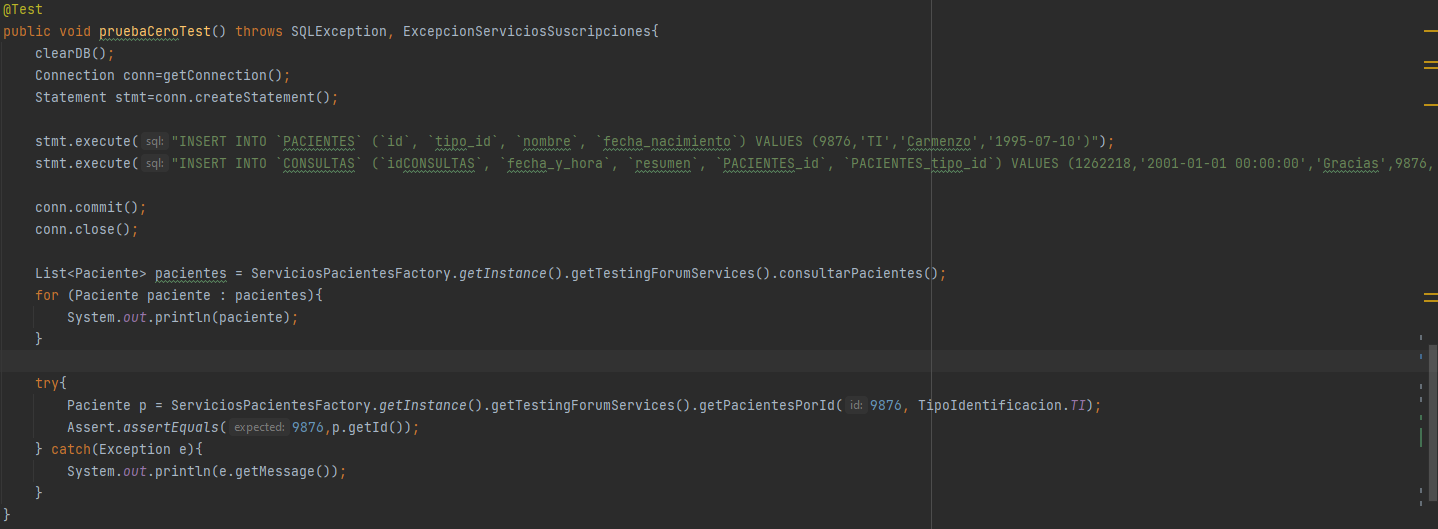
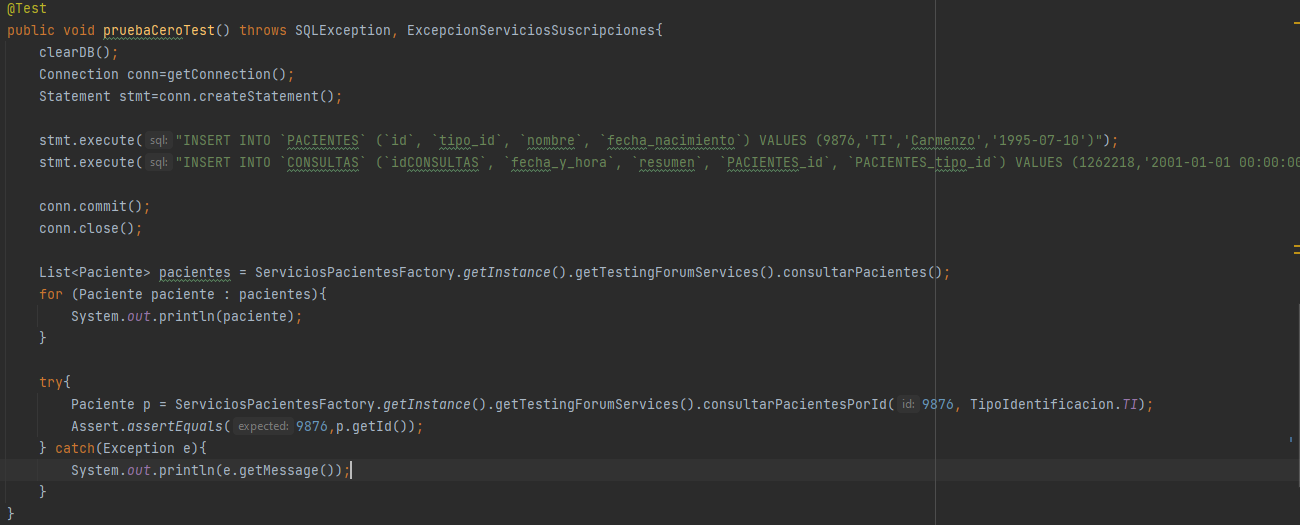
tercer punto

diff --git a/src/main/java/edu/eci/pdsw/samples/services/impl/ServiciosPacienteImpl.java b/src/main/java/edu/eci/pdsw/samples/services/impl/ServiciosPacienteImpl.java
@@ -33,12 +33,7 @@ public class ServiciosPacienteImpl implements ServiciosPaciente {
     }
 
     @Override
-    public Paciente consultarPacientesPorId(int id, TipoIdentificacion tipoIdentificacion) throws ExcepcionServiciosSuscripciones {
-        throw new UnsupportedOperationException("Not supported yet."); //To change body of generated methods, choose Tools | Templates.
-    }
-
-    @Override
-    public Paciente getPacientesPorId(int id, TipoIdentificacion tipoIdentificacion) throws ExcepcionServiciosSuscripciones, PersistenceException {
+    public Paciente consultarPacientesPorId(int id, TipoIdentificacion tipoIdentificacion) throws ExcepcionServiciosSuscripciones, PersistenceException {
         try {
             return daoPaciente.load(id, tipoIdentificacion);
         } catch (Exception e){
@@ -47,8 +42,12 @@ public class ServiciosPacienteImpl implements ServiciosPaciente {
     }
 
     @Override
-    public List<Paciente> consultarMenoresConEnfermedadContagiosa() throws ExcepcionServiciosSuscripciones {
-        throw new UnsupportedOperationException("Not supported yet."); //To change body of generated methods, choose Tools | Templates.
+    public List<Paciente> consultarMenoresConEnfermedadContagiosa() throws ExcepcionServiciosSuscripciones, PersistenceException {
+        try{
+            return daoPaciente.loadMenoresContagiosos();
+        } catch (Exception e){
+            throw e;
+        }
     }
 
 

diff --git a/src/main/java/edu/eci/pdsw/samples/services/ServiciosPaciente.java b/src/main/java/edu/eci/pdsw/samples/services/ServiciosPaciente.java
@@ -30,8 +30,7 @@ public interface ServiciosPaciente {
      * @throws ExcepcionServiciosSuscripciones si NO existe un paciente con dicha
      * identificacion, o si se presenta otro problema en las capas inferiores.
      */
-    public Paciente consultarPacientesPorId(int id, TipoIdentificacion tipoIdentificacion) throws ExcepcionServiciosSuscripciones;
-    Paciente getPacientesPorId(int id, TipoIdentificacion tipoIdentificacion) throws ExcepcionServiciosSuscripciones, PersistenceException;
+    Paciente consultarPacientesPorId(int id, TipoIdentificacion tipoIdentificacion) throws ExcepcionServiciosSuscripciones, PersistenceException;
     
     /**
      * Consulta los pacientes menores de edad que han tenido enfermedades contagiosas
@@ -40,7 +39,7 @@ public interface ServiciosPaciente {
      * 'varicela'
      * @throws ExcepcionServiciosSuscripciones si se presenta otro problema en las capas inferiores.
      */
-    public List<Paciente> consultarMenoresConEnfermedadContagiosa() throws ExcepcionServiciosSuscripciones;
+    public List<Paciente> consultarMenoresConEnfermedadContagiosa() throws ExcepcionServiciosSuscripciones, PersistenceException;
     
 
 }

diff --git a/src/main/java/edu/eci/pdsw/samples/persistence/mybatisimpl/MyBatisDAOPaciente.java b/src/main/java/edu/eci/pdsw/samples/persistence/mybatisimpl/MyBatisDAOPaciente.java
@@ -39,7 +39,7 @@ public class MyBatisDAOPaciente implements DaoPaciente {
     public Paciente load(int id, TipoIdentificacion tipoIdentificacion) throws PersistenceException {
         try{
             System.out.println(id);
-            return pacienteMapper.getPacientesPorId(id, tipoIdentificacion);
+            return pacienteMapper.consultarPacientesPorId(id, tipoIdentificacion);
         } catch(Exception e){
             throw e;
         }
@@ -69,6 +69,15 @@ public class MyBatisDAOPaciente implements DaoPaciente {
     @Override
     public void addConsulta(int id, TipoIdentificacion tipoId, Consulta c) throws PersistenceException {
 
+    }
+
+    @Override
+    public List<Paciente> loadMenoresContagiosos() throws PersistenceException{
+        try{
+            return pacienteMapper.menoresContagiosos();
+        } catch(Exception e){
+            throw e;
+        }
     }
 
 

diff --git a/src/main/java/edu/eci/pdsw/samples/managedbeans/PacientesBean.java b/src/main/java/edu/eci/pdsw/samples/managedbeans/PacientesBean.java
@@ -69,9 +69,9 @@ public class PacientesBean {
     }
 
 
-    public void getPacientePorId(int id) throws Exception {
+    public void consultarPacientesPorId(int id) throws Exception {
         try {
-            paciente = ServiciosPacientesFactory.getInstance().getForumsServices().getPacientesPorId(id, tipoIdentificacion);
+            paciente = ServiciosPacientesFactory.getInstance().getForumsServices().consultarPacientesPorId(id, tipoIdentificacion);
         } catch (Exception e) {
             e.printStackTrace();
         }
@@ -83,6 +83,10 @@ public class PacientesBean {
         } catch (Exception e){
             e.printStackTrace();
         }
+    }
+
+    public List<Paciente> getMenoresContagiosos() {
+        return menoresContagiosos;
     }
 
     

diff --git a/src/test/java/edu/eci/pdsw/samples/tests/ServicesJUnitTest.java b/src/test/java/edu/eci/pdsw/samples/tests/ServicesJUnitTest.java
@@ -81,7 +81,7 @@ public class ServicesJUnitTest {
         }
 
         try{
-            Paciente p = ServiciosPacientesFactory.getInstance().getTestingForumServices().getPacientesPorId(9876, TipoIdentificacion.TI);
+            Paciente p = ServiciosPacientesFactory.getInstance().getTestingForumServices().consultarPacientesPorId(9876, TipoIdentificacion.TI);
             Assert.assertEquals(9876,p.getId());
         } catch(Exception e){
             System.out.println(e.getMessage());

diff --git a/src/main/java/edu/eci/pdsw/samples/persistence/mybatisimpl/mappers/PacienteMapper.java b/src/main/java/edu/eci/pdsw/samples/persistence/mybatisimpl/mappers/PacienteMapper.java
@@ -33,6 +33,8 @@ import org.apache.ibatis.annotations.Select;
  */
 public interface PacienteMapper {
     List<Paciente> getPacientes();
-    Paciente getPacientesPorId(@Param("id") int id, @Param("idType") TipoIdentificacion tipoIdentificacion);
+    Paciente consultarPacientesPorId(@Param("id") int id, @Param("idType") TipoIdentificacion tipoIdentificacion);
+
+    List<Paciente> menoresContagiosos();
 
 }

diff --git a/src/main/java/edu/eci/pdsw/samples/persistence/DaoPaciente.java b/src/main/java/edu/eci/pdsw/samples/persistence/DaoPaciente.java
@@ -37,5 +37,7 @@ public interface DaoPaciente {
     public void update(Paciente e) throws PersistenceException;
     
     public void addConsulta(int id, TipoIdentificacion tipoId, Consulta c) throws PersistenceException;
+
+    public List<Paciente> loadMenoresContagiosos() throws PersistenceException;
     
 }

diff --git a/README.md b/README.md
@@ -28,8 +28,10 @@ Mostrar los pacientes menores de edad que en sus consultas se encuentren las enf
    ![](./img/img2.png)
 
 
+
 3. (40%) Implemente la historia de usuario #1, agregando todo lo que haga falta en la capa de presentación, lógica y de persistencia. La vista debe implementarse en consultaPaciente.xhtml.
    ![](./img/img.png)
 4. (40%)Implemente la historia de usuario #2, agregando todo lo que haga falta en la capa de presentación, lógica y de persistencia. La vista debe implementarse en consultarMenoresEnfermedadContagiosa.xhtml.
 
+   ![](./img/img3.png)
 
